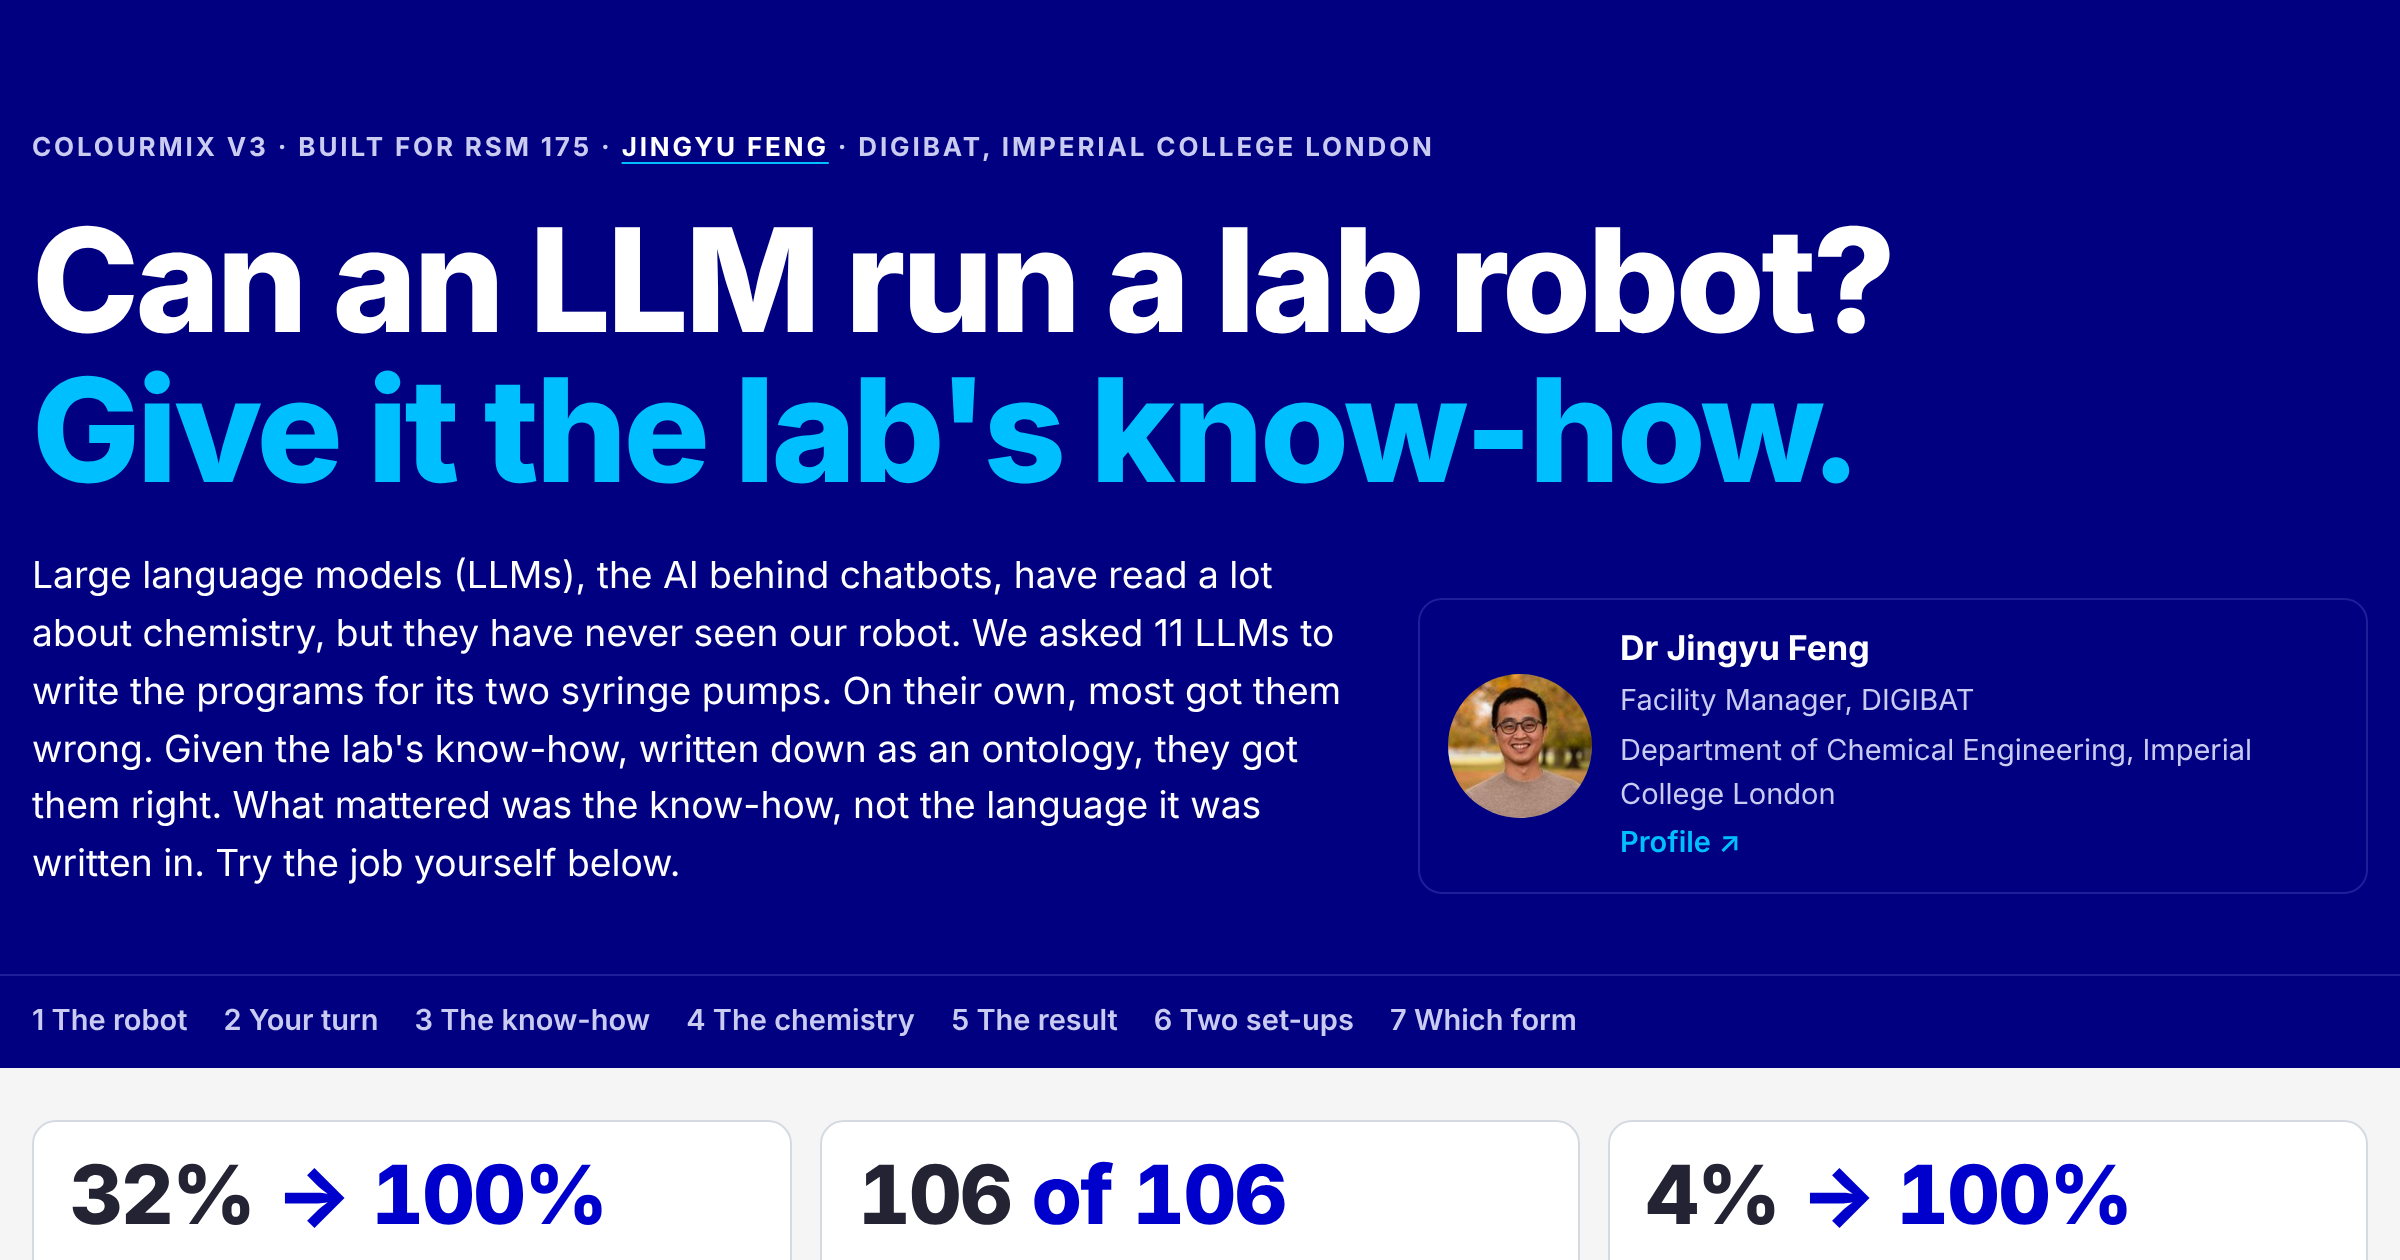
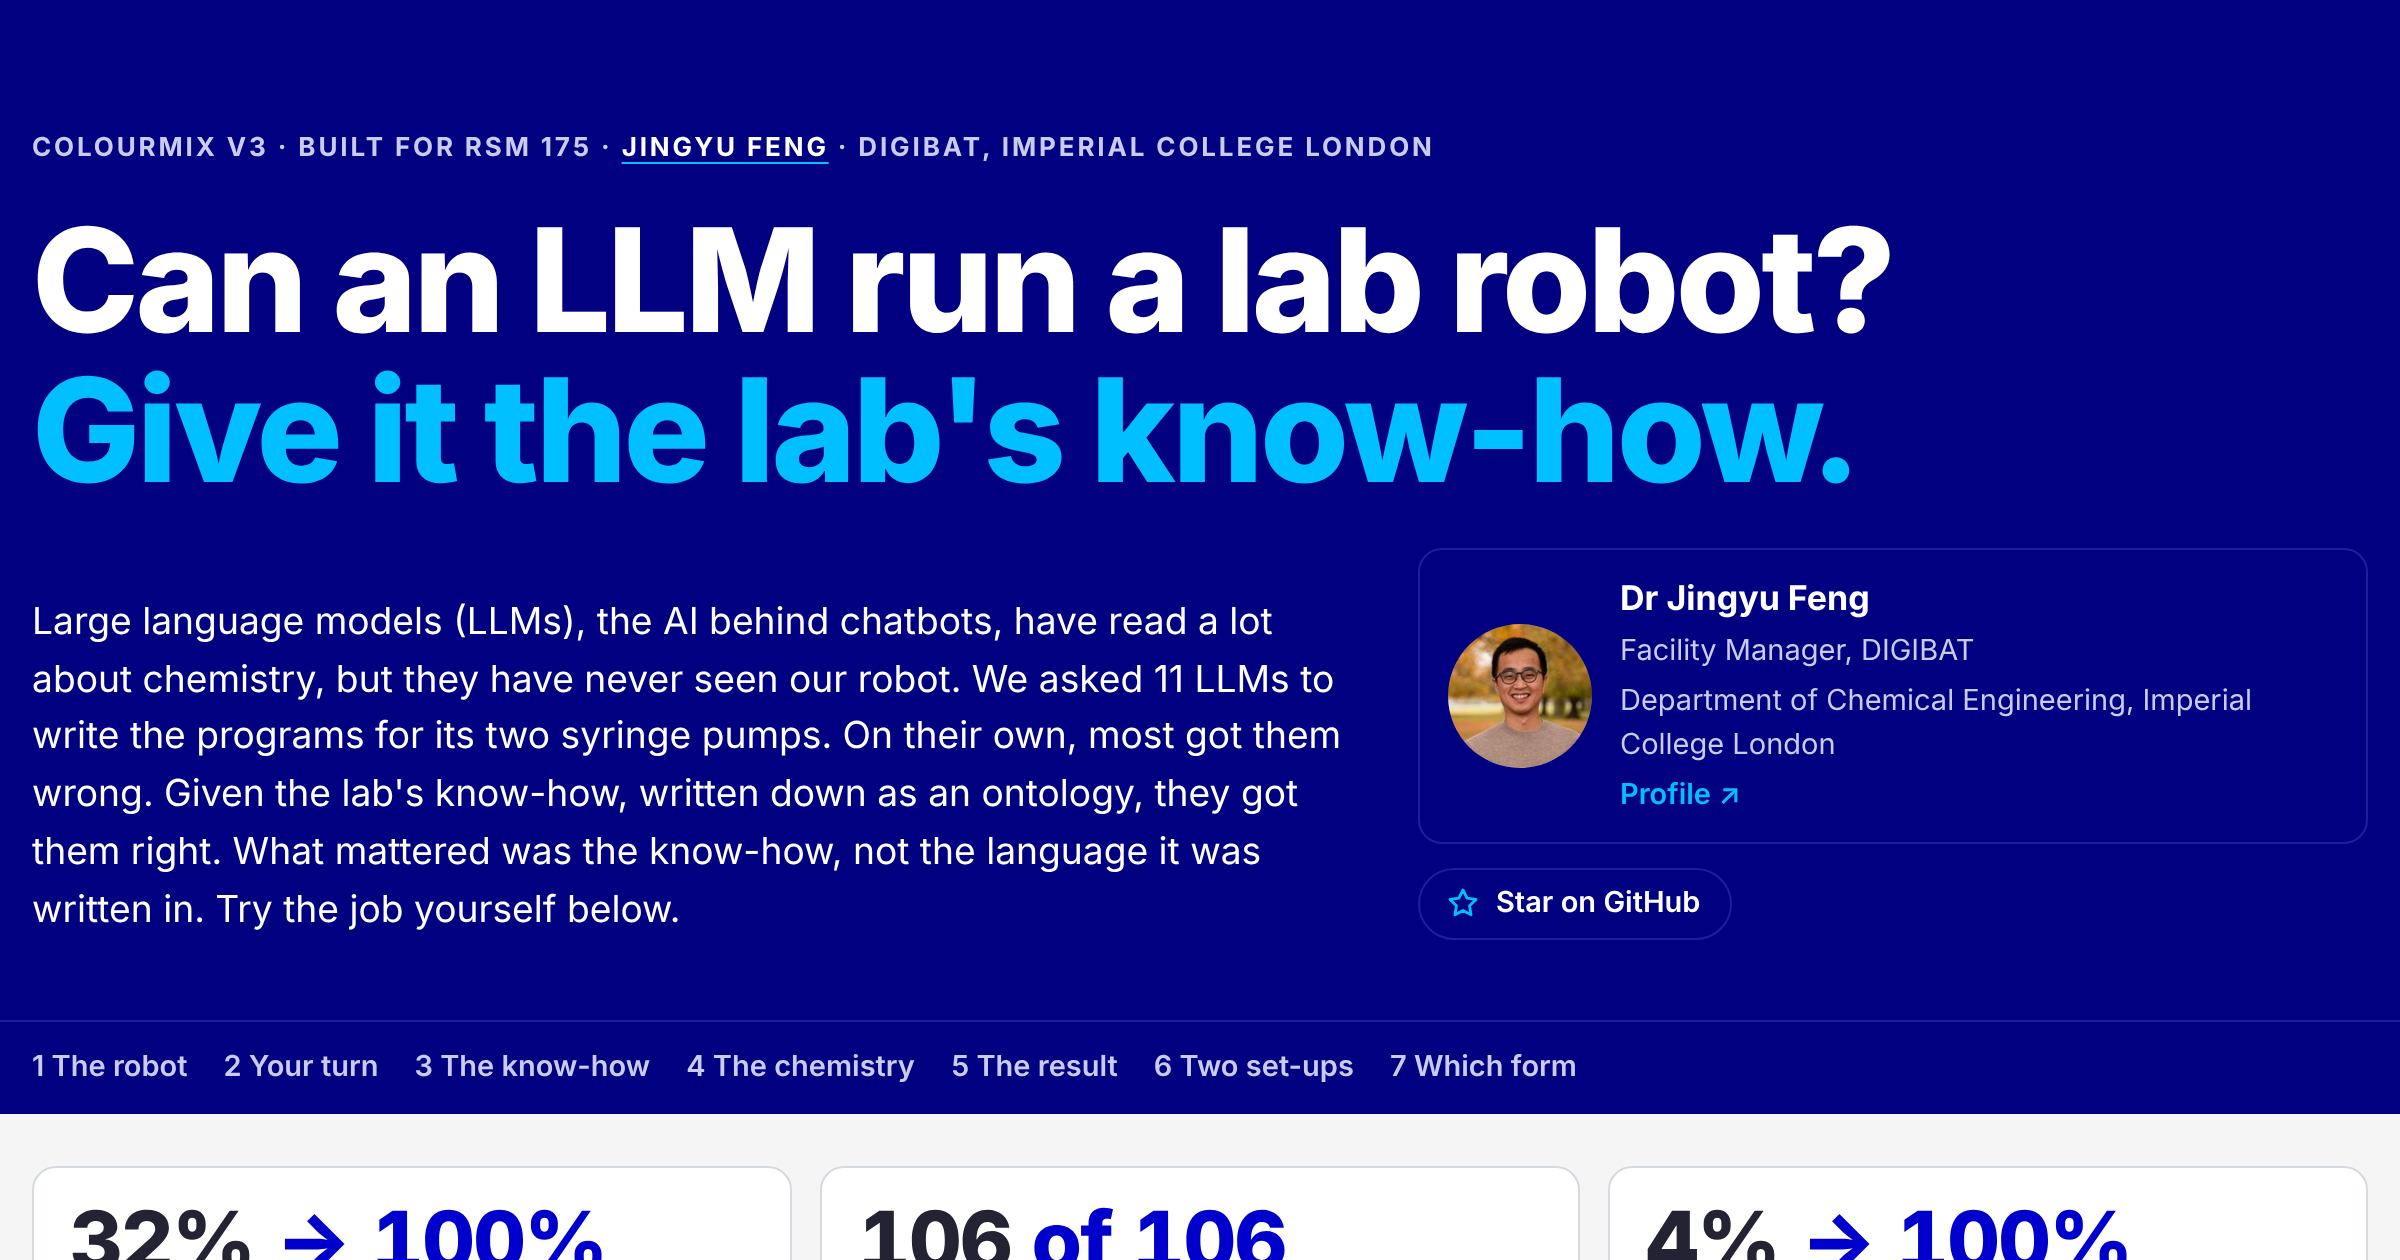
Imperial colours, RSM 175, link preview, Star on GitHub

Changed region(s): [[0.0, 0.4333, 0.5625, 0.7429], [0.0, 0.8048, 1.0, 1.0], [0.5938, 0.4643, 0.9375, 0.7429]]

diff --git a/index.html b/index.html
@@ -77,6 +77,18 @@ button{font:inherit;color:inherit;cursor:pointer}
 .author .who{display:grid;gap:2px;font-size:14.5px;color:var(--band-muted);min-width:0}
 .author .who b{font-size:17px;color:var(--band-ink)}
 .author .who u{text-decoration:none;color:var(--band-accent);font-weight:600}
+.side{display:grid;gap:12px;min-width:0}
+/* 'Star on GitHub': in the header and the footer; the count shows once there is a star (never in the visitor app) */
+.ghstar{display:inline-flex;align-items:center;gap:8px;justify-self:start;text-decoration:none;font-weight:600;font-size:14.5px;line-height:1.2;border-radius:999px;padding:8px 15px 8px 13px;border:1px solid var(--line);color:var(--ink);background:var(--panel)}
+.ghstar svg{width:17px;height:17px;flex:none;color:var(--accent);fill:none;stroke:currentColor;stroke-width:2;stroke-linejoin:round}
+.ghstar:hover{border-color:var(--accent)}
+.ghstar:hover svg{fill:currentColor}
+.ghstar .count{font:600 12.5px/1 var(--f-mono);padding:3px 7px;border-radius:999px;background:var(--accent-soft);color:var(--accent)}
+.band .ghstar{border-color:var(--band-line);color:var(--band-ink);background:transparent}
+.band .ghstar svg{color:var(--band-accent)}
+.band .ghstar:hover{border-color:var(--band-accent)}
+.band .ghstar .count{background:var(--band-line);color:var(--band-ink)}
+footer .cta{display:flex;flex-wrap:wrap;align-items:center;gap:10px 16px;padding-bottom:6px;font-size:15px;color:var(--ink)}
 .secbar{border-top:1px solid var(--band-line)}
 .secbar nav{display:flex;gap:4px 18px;overflow-x:auto;padding-block:12px;font-size:14.5px;font-weight:600;white-space:nowrap}
 .secbar a{text-decoration:none;color:var(--band-muted)}
@@ -251,10 +263,13 @@ footer p{max-width:90ch}
     <h1>Can an LLM run a lab robot? <em>Give it the lab's know-how.</em></h1>
     <div class="herogrid">
       <p class="lede" id="lede"></p>
-      <a class="author" href="https://profiles.imperial.ac.uk/j.feng19" target="_blank" rel="noopener">
-        <span class="avatar"><span class="initials" aria-hidden="true">JF</span><img id="photo" alt="Jingyu Feng" hidden></span>
-        <span class="who"><b>Dr Jingyu Feng</b><span>Facility Manager, DIGIBAT</span><span>Department of Chemical Engineering, Imperial College London</span><u>Profile ↗</u></span>
-      </a>
+      <div class="side">
+        <a class="author" href="https://profiles.imperial.ac.uk/j.feng19" target="_blank" rel="noopener">
+          <span class="avatar"><span class="initials" aria-hidden="true">JF</span><img id="photo" alt="Jingyu Feng" hidden></span>
+          <span class="who"><b>Dr Jingyu Feng</b><span>Facility Manager, DIGIBAT</span><span>Department of Chemical Engineering, Imperial College London</span><u>Profile ↗</u></span>
+        </a>
+        <a class="ghstar" href="https://github.com/Jingyu2020/robot-dictionary" target="_blank" rel="noopener"><svg viewBox="0 0 24 24" aria-hidden="true"><path d="M12 2.8l2.84 5.76 6.36.92-4.6 4.49 1.08 6.33L12 17.31l-5.68 2.99 1.08-6.33-4.6-4.49 6.36-.92z"/></svg>Star on GitHub<span class="count" hidden></span></a>
+      </div>
     </div>
   </div>
   <div class="secbar"><nav class="wrap" aria-label="Sections"><a href="#robot">1 The robot</a><a href="#turn">2 Your turn</a><a href="#dictionary">3 The know-how</a><a href="#chemistry">4 The chemistry</a><a href="#results">5 The result</a><a href="#setups">6 Two set-ups</a><a href="#forms" id="formsNav">7 Which form</a></nav></div>
@@ -913,12 +928,22 @@ $$("[data-plumb]").forEach(b => b.addEventListener("click", () => setPlumb(b.dat
 
 $("#foot").innerHTML = `<p>Every program in our tests ran on a digital twin of the pumps, so the real pumps never moved. A program counts as correct only if it is safe, gets every amount right, fills the vial to 9.8 mL, adds no water, stirs with air after the last dye and leaves both syringes empty: the same checks as on this page. Tests of ${esc(D.date)}${D.forms && D.forms.date && D.forms.date !== D.date ? `; the forms test, ${esc(D.forms.date)}` : ""}.</p>
   <p>ColourMix v3 · built for RSM 175 · <a href="https://profiles.imperial.ac.uk/j.feng19" target="_blank" rel="noopener">Jingyu Feng</a> · DIGIBAT, Imperial College London</p>`;
+{ const cta = document.createElement("div"); cta.className = "cta";
+  cta.append($(".band .ghstar").cloneNode(true), Object.assign(document.createElement("span"), {textContent: "Found it useful? A star on GitHub helps other people find it."}));
+  $("#foot").prepend(cta); }
 
 setPlumb("asPlumbed"); pickPort(1, 2, false); setTo(5); drawMix(); renderResults();
 $("#portCaption").textContent = "Tap a port on the drawing to follow its tube.";
-// inside the ColourMix visitor app (?inapp=1): links to other websites would leave the stand's screen, so they are plain text there
-if (new URLSearchParams(location.search).has("inapp"))
+// inside the ColourMix visitor app (?inapp=1): links to other websites would leave the stand's screen, so they are plain text
+// there, and the 'Star on GitHub' buttons go
+if (new URLSearchParams(location.search).has("inapp")) {
+  document.querySelectorAll(".ghstar, footer .cta").forEach(e => e.remove());
   document.querySelectorAll('a[href^="http"]').forEach(a => { a.removeAttribute("href"); a.removeAttribute("target"); a.style.cursor = "default"; });
+} else                                     // on the web: how many stars so far (shown from the first one)
+  fetch("https://api.github.com/repos/Jingyu2020/robot-dictionary").then(r => r.ok ? r.json() : null).then(j => {
+    const n = j && j.stargazers_count;
+    if (n > 0) document.querySelectorAll(".ghstar .count").forEach(c => { c.textContent = n.toLocaleString("en-GB"); c.hidden = false; });
+  }).catch(() => {});
 })();
 </script>
 </body>
